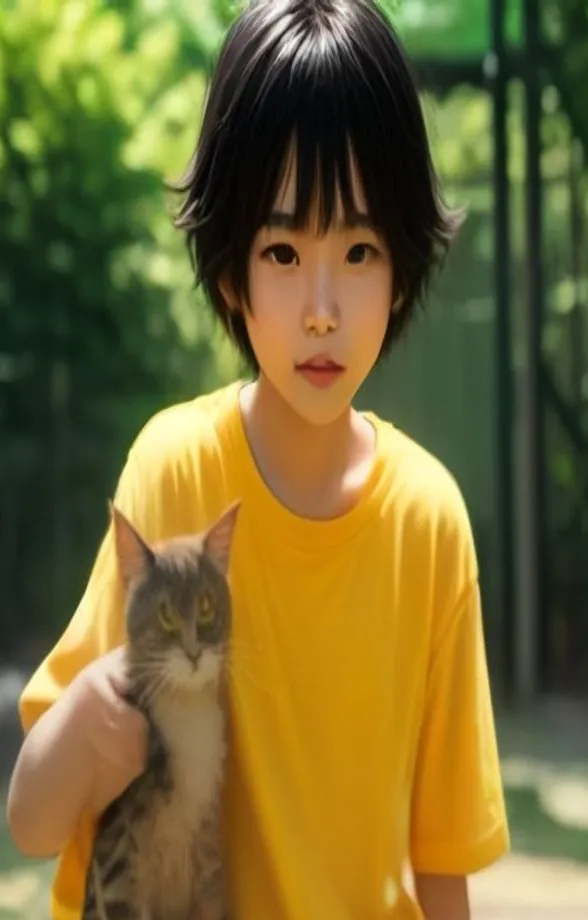
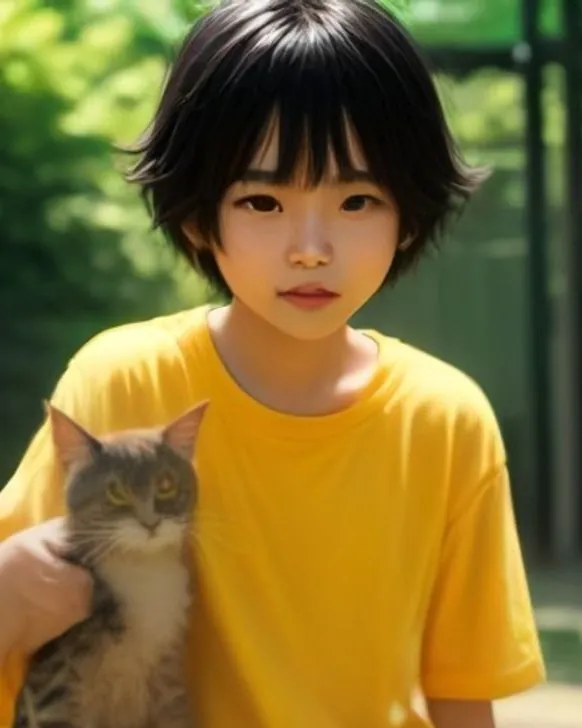
하하호호: 가로로 눌린 AI 사진을 원래 비율로 다시 생성
세로(640×1000)로 요청하면 생성 서비스가 정사각형 그림을 가로로 눌러 얼굴·몸이 얄쌍하게 찌그러졌음.
같은 씨앗으로 정사각형을 받아 크기 조정 없이 세로 4:5로 잘라냄 (워터마크 줄 제외).

Claude-Session: https://claude.ai/code/session_016pMQCe6k5WT2zqNYfqiX6q

diff --git a/hahahoho/src/version.js b/hahahoho/src/version.js
@@ -1,2 +1,2 @@
 // 앱 버전. 배포할 때마다 version.json 과 같이 올린다 (다르면 테스트가 실패한다).
-export const APP_VERSION = '2026.09.29-2';
+export const APP_VERSION = '2026.09.29-3';

diff --git a/hahahoho/assets/portraits/README.md b/hahahoho/assets/portraits/README.md
@@ -2,7 +2,7 @@
 
 NPC를 누르면 나오는 프로필과 "대화하기" 화면에 쓰는 사진입니다. 사진이 없으면 게임 속 도트 초상화가 대신 나옵니다.
 
-지금 들어 있는 사진 9장(봄이·실비·레아·철수·순자·강태공·촌장님·민수·두리)은 AI(pollinations.ai · flux)로 만든 가상 인물이고("폰으로 찍은 스냅 · 보정 없는 피부 · 자연광" 식으로 사실적으로 뽑음), 아래쪽 워터마크를 잘라 2:3 WebP 로 줄였습니다. 남주혁(`juhyuk`)·카리나(`karina`)는 직접 올린 사진입니다.
+지금 들어 있는 사진 9장(봄이·실비·레아·철수·순자·강태공·촌장님·민수·두리)은 AI(pollinations.ai · flux)로 만든 가상 인물이고("폰으로 찍은 스냅 · 보정 없는 피부 · 자연광" 식으로 사실적으로 뽑음). 이 서비스는 세로로 요청하면 정사각형 그림을 가로로 눌러 찌그러뜨리므로, 정사각형(1024×1024)으로 받아 크기 조정 없이 세로 4:5로 잘라냈습니다, 아래쪽 워터마크를 잘라 2:3 WebP 로 줄였습니다. 남주혁(`juhyuk`)·카리나(`karina`)는 직접 올린 사진입니다.
 
 ## 넣는 방법
 
